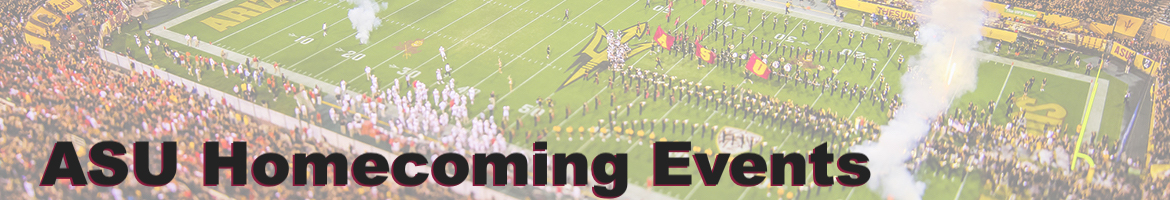
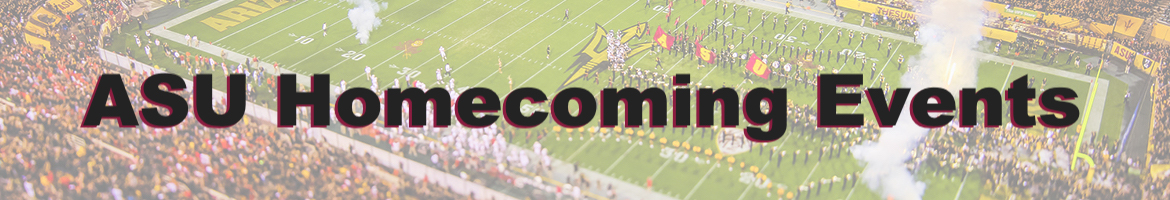
Adjust hero image

Changed region(s): [[0.0615, 0.36, 0.9231, 0.72], [0.0308, 0.69, 0.7692, 1.0]]

diff --git a/20221113newsletter.html b/20221113newsletter.html
@@ -784,7 +784,7 @@ http://www.w3.org/TR/NOTE-VML
                                     <!-- Start Hero Image-->
                                     <tr>
                                         <td class="image ptb20 m-prl10" align="center">
-                                            <img src="https://github.com/git-creative-agency/theScoop/blob/main/images/homecoming.jpg?raw=true" alt="" width="300">
+                                            <img src="https://github.com/git-creative-agency/theScoop/blob/main/images/homecoming.jpg?raw=true" alt="" width="540">
                                         </td>
                                     </tr>
                                     <!-- End Hero Image -->
